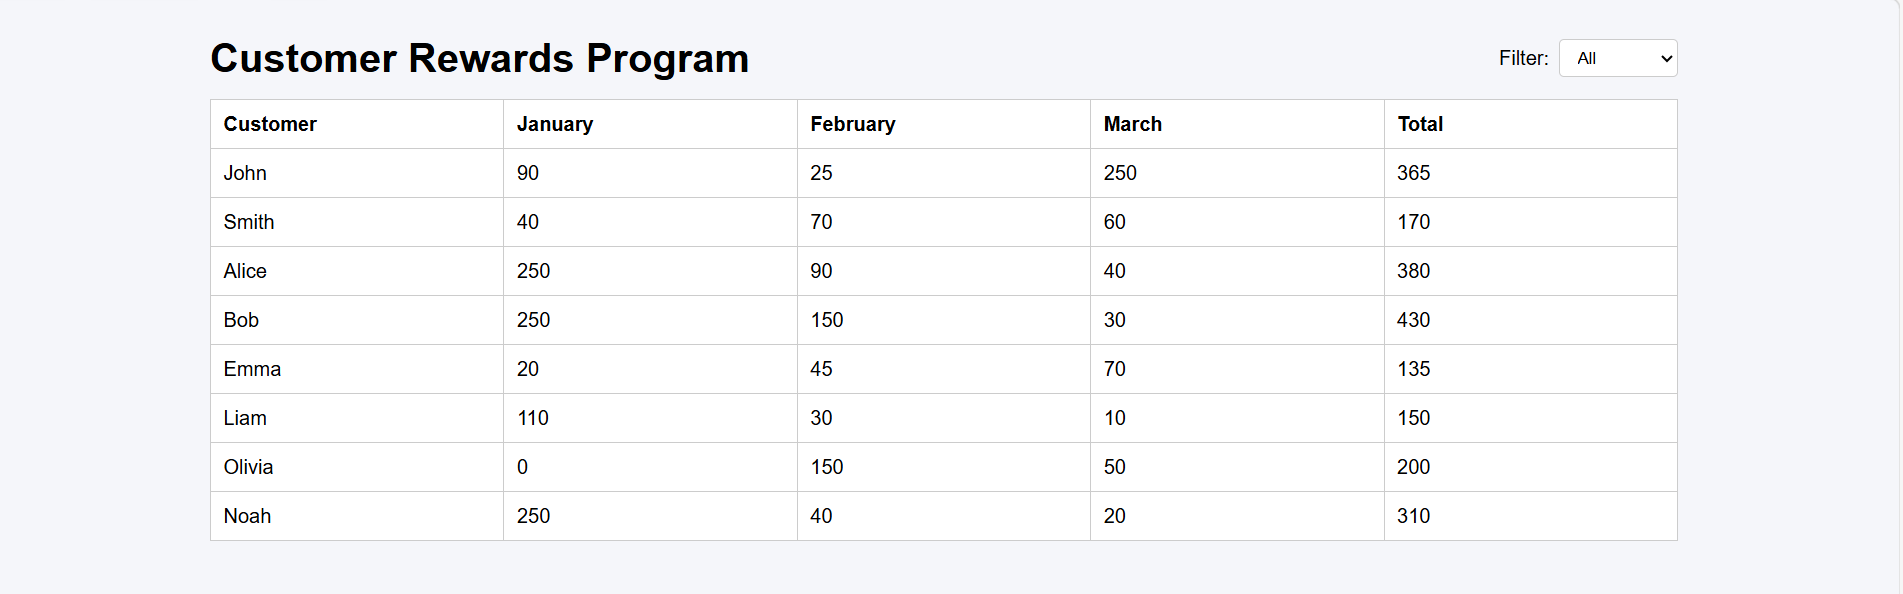
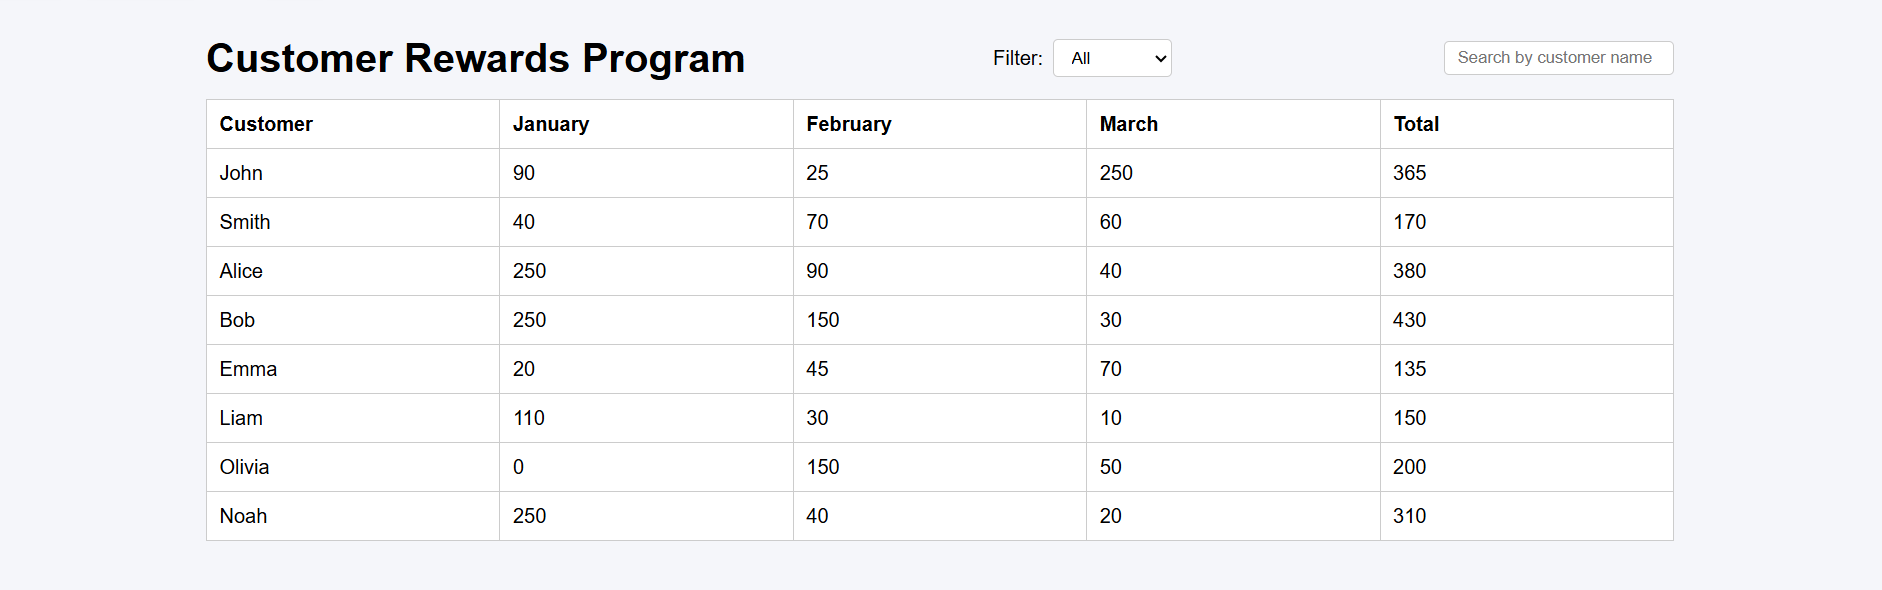
Added UI screenshots

diff --git a/src/components/RewardsTable.js b/src/components/RewardsTable.js
@@ -1,27 +1,52 @@
-import { useState, useCallback } from "react";
+import { useState, useCallback, useMemo } from "react";
 import { useRewards } from "../hooks/useRewards";
 import TableRow from "./RewardsRow";
 import FilterControls from "./FilterControls";
 import { FILTER_OPTIONS } from "../constants";
 import "../App.css";
 
+// RewardsTable component with search
 const RewardsTable = () => {
-  const { rewards } = useRewards();
-  const [filter, setFilter] = useState("All");
+  const { rewards } = useRewards(); // Fetch rewards data
+  const [month, setMonth] = useState("All"); // Month filter
+  const [searchTerm, setSearchTerm] = useState(""); // Search by customer name
 
-  // useCallback ensures the handler reference is stable and prevents unnecessary re-renders
-  const handleFilterChange = useCallback((e) => {
-    setFilter(e.target.value);
+  // Handle month filter change
+  const handleMonthChange = useCallback((e) => {
+    setMonth(e.target.value);
   }, []);
+
+  // Handle search input change
+  const handleSearchChange = useCallback((e) => {
+    setSearchTerm(e.target.value);
+  }, []);
+
+  // Filtered rewards based on search
+  const filteredRewards = useMemo(() => {
+    return Object.entries(rewards).filter(([name]) =>
+      name.toLowerCase().includes(searchTerm.toLowerCase())
+    );
+  }, [rewards, searchTerm]);
 
   return (
     <div className="table-container">
       <div className="header">
         <h1>Customer Rewards Program</h1>
+
+        {/* Month filter */}
         <FilterControls
-          value={filter}
-          onChange={handleFilterChange}
+          value={month}
+          onChange={handleMonthChange}
           options={FILTER_OPTIONS}
+        />
+
+        {/* Search input */}
+        <input
+          type="text"
+          placeholder="Search by customer name"
+          value={searchTerm}
+          onChange={handleSearchChange}
+          className="search-input"
         />
       </div>
 
@@ -37,13 +62,8 @@ const RewardsTable = () => {
         </thead>
 
         <tbody>
-          {Object.entries(rewards).map(([name, data]) => (
-            <TableRow
-              key={name}
-              name={name}
-              data={data}
-              filter={filter}
-            />
+          {filteredRewards.map(([name, data]) => (
+            <TableRow key={name} name={name} data={data} filter={month} />
           ))}
         </tbody>
       </table>

diff --git a/src/App.css b/src/App.css
@@ -53,3 +53,10 @@ th, td {
 tr:hover {
   background-color: #f9f9f9;
 }
+
+.search-input {
+  margin-left: 20px;
+  padding: 5px 10px;
+  border-radius: 4px;
+  border: 1px solid #ccc;
+}
